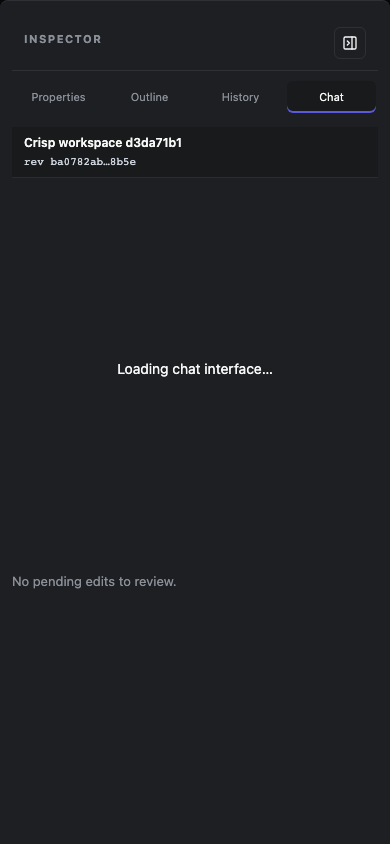
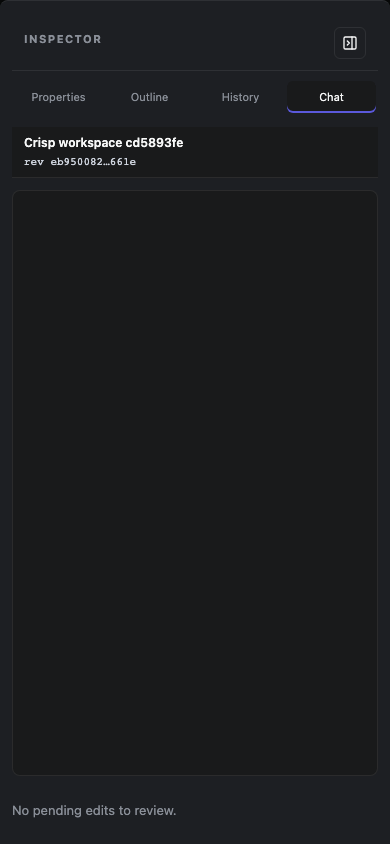
docs: add verified desktop workspace chat screenshot

diff --git a/frontend/e2e/screenshots.spec.ts b/frontend/e2e/screenshots.spec.ts
@@ -127,6 +127,15 @@ test('capture the README workspace and settings screenshots', async ({ page, req
     fullPage: false,
   })
 
+  // Workspace chat tab inside the document inspector.
+  await page.getByRole('tab', { name: 'chat', exact: true }).click()
+  await expect(page.locator('.chatkit-frame')).toBeVisible()
+  await page.waitForTimeout(2500)
+  await page.screenshot({
+    path: path.join(repositoryRoot, 'docs/assets/crisp-chat.png'),
+    fullPage: false,
+  })
+
   await page.goto('/settings')
   await expect(page.getByRole('heading', { name: 'Appearance' })).toBeVisible()
   await page.waitForTimeout(300)

diff --git a/README.md b/README.md
@@ -301,6 +301,11 @@ the human reviews them.
 
 ![Phase 7 workspace-grounded chat showing the active launch brief, ChatKit composer with a connection-scoped model, and a pending agent edit proposal](./docs/assets/phase-7-chat-workspace.jpg)
 
+The current crisp UI embeds the same workspace chat in the document inspector,
+with a recovery notice if the chat interface ever fails to load:
+
+![Workspace chat tab active in the document inspector with the ChatKit greeting, prompt suggestions, and connection-scoped model picker](./docs/assets/crisp-chat.png)
+
 ### Human-reviewed chat proposal
 
 An agent-proposed document update is pinned to the revision it reviewed. Sangam
